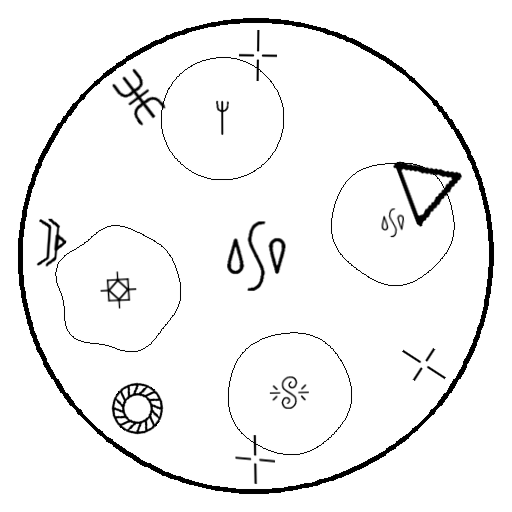
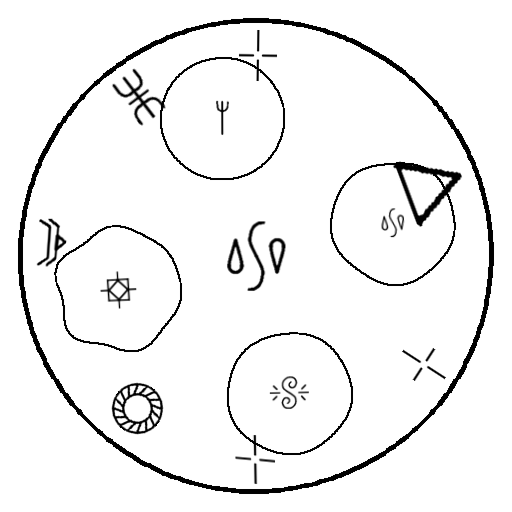
Keep effects to outcomes; show instability as behavior; add synthetic examples
The effect field states what the spell does in one to three sentences and
never names signs, the ring, or reasons. Weak, open or overloaded seals show
it in behavior (wavers, collapses early, acts unevenly) instead of a label.
The unstable judgment applies only to direct contradictions or more than
three unrelated modifier kinds. --synth mode loads data/synth/examples.jsonl
after the real exemplars; two hand-picked synthetic records seed it, and the
review tool can edit them.

diff --git a/src/wha_spell_decoder/data/review.html b/src/wha_spell_decoder/data/review.html
@@ -23,7 +23,7 @@
 </div>
 <div id="right">
   <nav>
-    <select id="file"><option>examples</option><option>records</option><option>todo</option><option>synth</option></select>
+    <select id="file"><option>examples</option><option>records</option><option>todo</option><option>synth</option><option>synth examples</option></select>
     <button id="prev">&larr;</button><span id="pos"></span><button id="next">&rarr;</button>
     <button id="save">save</button><span id="status"></span>
   </nav>

diff --git a/src/wha_spell_decoder/data/annotate.py b/src/wha_spell_decoder/data/annotate.py
@@ -32,8 +32,8 @@ A spell activates only when its ring is closed, so say "ring open" or "ring clos
 For each target image you get the image and the wiki text about it. Produce:
 - usable: clean (complete, legible glyph), partial (glyph cut off or only partly visible), occluded (glyph present but obscured by art, ink, hands), no_glyph (no seal or sign visible).
 - description: ONLY what is visible in the image. Name signs using the reference names when you can match them; say where they sit (center, north, east, inverted, ...) and how many. Say what is cut off or hidden. Never describe things the wiki text mentions that you cannot see.
-- justification: how the visible signs and sigil combine, citing the sign rules. If a glyph matches no known sign, name the closest sign, say it is a guess, and still derive an effect from that reading. Say nothing can be decoded only when the glyph is hidden or cut off.
-- effect: what the spell does, taken from the wiki text. If the ring is open, say the spell does not activate, then what it would do if the ring were closed. For a lone sign, state it is a component and give its modifier effect. If the glyph is not visible or not readable, say the effect cannot be determined from the image. Never infer the effect from surrounding panel art. Describe what the spell does, never who used it, where, or in which chapter. If the visible part suggests a symmetric seal, you may assume the hidden part mirrors it, but say that you assume it.
+- justification: how the visible signs and sigil combine, citing the sign rules. If a glyph matches no known sign, name the closest sign, say it is a guess, and still derive an effect from that reading. Say nothing can be decoded only when the glyph is hidden or cut off. If signs directly contradict each other, or a seal stacks more than three unrelated kinds of modifier, say which parts dominate and that the result is likely unstable; otherwise do not call a seal unstable.
+- effect: what the spell does, as a wiki would state it, in one to three sentences. Outcome only: never name signs, the ring, or reasons, those belong in justification. For a lone sign, state it is a component and give its modifier effect. If the glyph is not visible or not readable, say the effect cannot be determined from the image. Never infer the effect from surrounding panel art. Describe what the spell does, never who used it, where, or in which chapter. If the visible part suggests a symmetric seal, you may assume the hidden part mirrors it, but say that you assume it. If the ring is open, say it does not activate and then what it would do if closed. If the seal is weak, unstable, or unpredictable, show it in the behavior: say what wavers, misfires, collapses early, or happens unevenly, as part of describing the effect. Never append it as a bare label.
 Never mention the wiki, the reference material, or any source in the output; state things as known facts. Never comment on the image's origin or status, such as it being a redraw, a reconstruction, a fan illustration, or a glyph never shown in the manga. Treat every image as a seal to read.
 Write plain prose. Length matches the image: a full seal gets a few sentences per field, a lone sign or an image without a glyph gets one or two."""
 
@@ -171,7 +171,8 @@ def main() -> None:
     examples = load(EXAMPLES)
     if args.synth:
         from .synth import SYNTH, synth_targets
-        records, pool, examples = SYNTH / "records.jsonl", synth_targets(), {**examples, **exemplars()}
+        # synthetic examples go last, nearest the target, after real exemplars set the register
+        records, pool, examples = SYNTH / "records.jsonl", synth_targets(), {**examples, **exemplars(), **load(SYNTH / "examples.jsonl")}
     else:
         records, pool = RECORDS, targets()
     done = load(records).keys() | examples.keys()

diff --git a/src/wha_spell_decoder/data/review.py b/src/wha_spell_decoder/data/review.py
@@ -10,7 +10,7 @@ from .annotate import CROPS, EXAMPLES, NOT_SPELLS, RECORDS, SIGILS, crop_list, c
 from .synth import SYNTH, synth_targets
 from .fetch import RAW, inside
 
-FILES = {"examples": EXAMPLES, "records": RECORDS, "todo": RECORDS, "synth": SYNTH / "records.jsonl"}  # todo = unannotated targets, saved into records
+FILES = {"examples": EXAMPLES, "records": RECORDS, "todo": RECORDS, "synth": SYNTH / "records.jsonl", "synth examples": SYNTH / "examples.jsonl"}  # todo = unannotated targets, saved into records
 HOST, PORT = "127.0.0.1", 8765
 ORIGIN = f"http://{HOST}:{PORT}"
 
@@ -26,7 +26,7 @@ def file_name(query: str) -> str:
 
 
 def listing(name: str) -> list[dict]:
-    text = {t["id"]: t["text"] for t in (synth_targets() if name == "synth" else targets())}
+    text = {t["id"]: t["text"] for t in (synth_targets() if name.startswith("synth") else targets())}
     if name == "todo":
         done = load(EXAMPLES).keys() | load(RECORDS).keys()
         return [t for t in targets() if t["id"] not in done]
